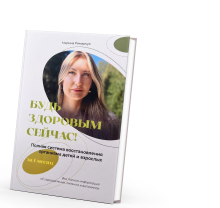
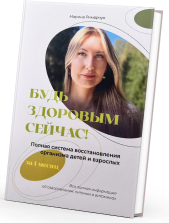
feat: created tg api navigation + refactored bookCard

diff --git a/src/pages/questions/QuestionPage.tsx b/src/pages/questions/QuestionPage.tsx
@@ -2,66 +2,69 @@ import React from 'react';
 
 import { AccordionComponent } from '../../modules/accordion/AccordionComponent';
 import { HeaderPage } from '../../modules/header/components/HeaderPage';
+import { useBackButton } from '../../utils/hooks/useBackButton';
 import { IAccordionContent } from '../../utils/types/statistic';
 import css from './QuestionPage.module.scss';
 
+const questionData: IAccordionContent[] = [
+    {
+        id: '1',
+        title: 'Текст вопроса 1',
+        content: [
+            {
+                title: '4 шага к исполнению мечты текст текст текст текст текст текст текст',
+            },
+        ],
+    },
+    {
+        id: '2',
+        title: 'Текст вопроса 1',
+        content: [
+            {
+                title: '4 шага к исполнению мечты текст текст текст текст текст текст текст',
+            },
+        ],
+    },
+    {
+        id: '3',
+        title: 'Текст вопроса 1',
+        content: [
+            {
+                title: '4 шага к исполнению мечты текст текст текст текст текст текст текст',
+            },
+        ],
+    },
+    {
+        id: '4',
+        title: 'Текст вопроса 1',
+        content: [
+            {
+                title: '4 шага к исполнению мечты текст текст текст текст текст текст текст',
+            },
+        ],
+    },
+    {
+        id: '5',
+        title: 'Текст вопроса 1',
+        content: [
+            {
+                title: '4 шага к исполнению мечты текст текст текст текст текст текст текст',
+            },
+        ],
+    },
+    {
+        id: '6',
+        title: 'Текст вопроса 1',
+        content: [
+            {
+                title: '4 шага к исполнению мечты текст текст текст текст текст текст текст',
+            },
+        ],
+    },
+];
+
 export const QuestionPage = () => {
-    const questionData: IAccordionContent[] = [
-        {
-            id: '1',
-            title: 'Текст вопроса 1',
-            content: [
-                {
-                    title: '4 шага к исполнению мечты текст текст текст текст текст текст текст',
-                },
-            ],
-        },
-        {
-            id: '2',
-            title: 'Текст вопроса 1',
-            content: [
-                {
-                    title: '4 шага к исполнению мечты текст текст текст текст текст текст текст',
-                },
-            ],
-        },
-        {
-            id: '3',
-            title: 'Текст вопроса 1',
-            content: [
-                {
-                    title: '4 шага к исполнению мечты текст текст текст текст текст текст текст',
-                },
-            ],
-        },
-        {
-            id: '4',
-            title: 'Текст вопроса 1',
-            content: [
-                {
-                    title: '4 шага к исполнению мечты текст текст текст текст текст текст текст',
-                },
-            ],
-        },
-        {
-            id: '5',
-            title: 'Текст вопроса 1',
-            content: [
-                {
-                    title: '4 шага к исполнению мечты текст текст текст текст текст текст текст',
-                },
-            ],
-        },
-        {
-            id: '6',
-            title: 'Текст вопроса 1',
-            content: [
-                {
-                    title: '4 шага к исполнению мечты текст текст текст текст текст текст текст',
-                },
-            ],
-        },
-    ];
+    useBackButton('/');
 
     return (
         <div className={css.questionPage}>

diff --git a/src/pages/main/components/parts/WelcomeUser.tsx b/src/pages/main/components/parts/WelcomeUser.tsx
@@ -3,6 +3,7 @@ import { Link } from 'react-router-dom';
 import { ReactComponent as ArrowIcon } from '../../../../assets/images/arrowIcon/arrow.svg';
 import { ReactComponent as AvatarIcon } from '../../../../assets/images/welcomeUser/avatar.svg';
 import { ReactComponent as QuestionsIcon } from '../../../../assets/images/welcomeUser/questions.svg';
+import { useTelegram } from '../../../../utils/hooks/useTelegram';
 import css from './WelcomeUser.module.scss';
 
 export const WelcomeUser = () => {
@@ -15,6 +16,8 @@ export const WelcomeUser = () => {
 
     /* console.log(users, 'users');*/
 
+    const { initDataUnsafe, WebAppUser } = useTelegram();
+
     return (
         <div className={css.welcomeUser}>
             <Link to="/statistics">
@@ -25,7 +28,7 @@ export const WelcomeUser = () => {
                         </div>
                         <div className={css.userInfo}>
                             <div className={css.helloUser}>Привет</div>
-                            <div className={css.username}>Ангелина</div>
+                            <div className={css.username}>{initDataUnsafe?.user?.first_name ?? 'Аноним'}</div>
                         </div>
                     </div>
                     <button type="button" className={css.arrowIcon}>

diff --git a/src/pages/statistics/StatisticsPage.tsx b/src/pages/statistics/StatisticsPage.tsx
@@ -1,17 +1,20 @@
-import React from 'react';
-
 import { ReactComponent as AvatarIcon } from '../../assets/images/statistics/avatar.svg';
+import { useBackButton } from '../../utils/hooks/useBackButton';
+import { useTelegram } from '../../utils/hooks/useTelegram';
 import css from './StatisticsPage.module.scss';
 import { MyStatistics } from './components/MyStatistics';
 
 export const StatisticsPage = () => {
+    useBackButton('/');
+    const { initDataUnsafe, WebAppUser } = useTelegram();
+
     return (
         <div className={css.statisticsWrapper}>
             <div className={css.statisticsPage}>
                 <div className={css.userAvatar}>
                     <AvatarIcon />
                 </div>
-                <div className={css.username}>Ангелина</div>
+                <p className={css.username}>{initDataUnsafe?.user?.first_name ?? 'Аноним'}</p>
             </div>
             <MyStatistics />
         </div>

diff --git a/src/pages/main/components/parts/BookCard.tsx b/src/pages/main/components/parts/BookCard.tsx
@@ -1,6 +1,7 @@
 import { FC, ReactNode } from 'react';
 import { Link } from 'react-router-dom';
 
+import imageSrc from '../../../../assets/images/bookBlock/book.png';
 import css from './BookCard.module.scss';
 
 export type BookCardProps = {
@@ -16,7 +17,8 @@ export const BookCard: FC<BookCardProps> = (props) => {
     return (
         <div className={className}>
             <div className={css.bookCard} data-index={index}>
-                <div className={css.bookImage} data-index={index}></div>
+                <img src={imageSrc} className={css.bookImage} alt="book" />
+
                 <div className={css.bookInfo}>
                     <div className={css.bookTitle}>{title}</div>
                     <div className={css.bookDescription}>{description}</div>

diff --git a/src/pages/main/components/parts/BookCard.module.scss b/src/pages/main/components/parts/BookCard.module.scss
@@ -1,7 +1,10 @@
 .bookCard {
-  display: flex;
+  display: grid;
+  grid-template-columns: minmax(100px, 2fr) 4fr;
+  align-items: center;
+  gap: 16px;
   min-height: 188px;
-  padding: 16px;
+  //padding: 16px;
   border-radius: 20px;
 
   &[data-index="0"], &[data-index="1"], &[data-index="2"], &[data-index="3"] {
@@ -9,16 +12,11 @@
   }
 
   .bookImage {
-    display: inline-flex;
-    min-width: 131px;
-    min-height: 226px;
-
-    &[data-index="0"], &[data-index="1"], &[data-index="2"], &[data-index="3"] {
-      background: url("../../../../assets/images/bookBlock/book.png") left top / 190px 210px no-repeat;
-    }
+    object-fit: contain;
   }
 
   .bookInfo {
+    margin: 16px 16px 16px 0;
     display: flex;
     flex-direction: column;
 

diff --git a/src/pages/video/VideoPage.tsx b/src/pages/video/VideoPage.tsx
@@ -1,15 +1,12 @@
-import React, { FC } from 'react';
-
 import { HeaderPage } from '../../modules/header/components/HeaderPage';
 import { data } from '../../modules/videoBlock/VideoBlock';
+import { useBackButton } from '../../utils/hooks/useBackButton';
 import { VideoCard } from '../main/components/parts/VideoCard';
 import css from './VideoPage.module.scss';
 
-export type VideoPageProps = {
-    isPage?: boolean;
-};
+export const VideoPage = () => {
+    useBackButton('/');
 
-export const VideoPage: FC<VideoPageProps> = () => {
     return (
         <div className={css.podcastPage}>
             <HeaderPage title="Видео от Марины Римарчук" isVideoBlock={true} />

diff --git a/src/utils/hooks/useBackButton.ts b/src/utils/hooks/useBackButton.ts
@@ -1,0 +1,23 @@
+import { useEffect } from 'react';
+import { useNavigate } from 'react-router-dom';
+
+import { useTelegram } from './useTelegram';
+
+export const useBackButton = (path?: string) => {
+    const { BackButton } = useTelegram();
+    const navigate = useNavigate();
+
+    useEffect(() => {
+        const goToModulePage = () => navigate(path ?? '/');
+
+        if (BackButton) {
+            BackButton.show();
+            BackButton.onClick(goToModulePage);
+        }
+
+        return () => {
+            BackButton?.hide();
+            BackButton?.offClick(goToModulePage);
+        };
+    }, [navigate, path, BackButton]);
+};

diff --git a/src/pages/meditation/MeditationPage.tsx b/src/pages/meditation/MeditationPage.tsx
@@ -1,6 +1,7 @@
 import React, { FC } from 'react';
 
 import { HeaderPage } from '../../modules/header/components/HeaderPage';
+import { useBackButton } from '../../utils/hooks/useBackButton';
 import { IMeditation } from '../../utils/types/meditation';
 import { MeditationCard } from '../main/components/parts/MeditationCard';
 import css from './MeditationPage.module.scss';
@@ -28,6 +29,8 @@ const data: IMeditation[] = [
 ];
 
 export const MeditationPage: FC<MeditationPageProps> = () => {
+    useBackButton('/');
+
     return (
         <div className={css.meditationPage}>
             <HeaderPage title="Медитации" />

diff --git a/src/pages/podcast/PodcastPage.tsx b/src/pages/podcast/PodcastPage.tsx
@@ -1,6 +1,7 @@
 import React from 'react';
 
 import { HeaderPage } from '../../modules/header/components/HeaderPage';
+import { useBackButton } from '../../utils/hooks/useBackButton';
 import { IPodcast } from '../../utils/types/podcast';
 import { PodcastCard } from '../main/components/parts/PodcastCard';
 import css from './PodcastPage.module.scss';
@@ -33,6 +34,8 @@ const data: IPodcast[] = [
 ];
 
 export const PodcastPage = () => {
+    useBackButton('/');
+
     return (
         <div className={css.podcastPage}>
             <HeaderPage title="Подкасты" />

diff --git a/src/pages/NotFoundPage/NotFound.tsx b/src/pages/NotFoundPage/NotFound.tsx
@@ -1,7 +1,8 @@
-import React from 'react';
-
 import { ErrorBlock } from '../../components/ErrorBlock';
+import { useBackButton } from '../../utils/hooks/useBackButton';
 
 export const NotFoundPage = () => {
+    useBackButton('/');
+
     return <ErrorBlock code={404} description="Похоже что такой страницы не существует, вернитесь на главную" />;
 };

diff --git a/public/index.html b/public/index.html
@@ -15,7 +15,8 @@
     />
     <link rel="apple-touch-icon" href="%PUBLIC_URL%/logo192.png" />
     <link rel="manifest" href="%PUBLIC_URL%/manifest.json" />
-    <title>React App</title>
+    <title>Marina Rimarchuk</title>
+    <script src="https://telegram.org/js/telegram-web-app.js"></script>
   </head>
   <body>
     <noscript>You need to enable JavaScript to run this app.</noscript>

diff --git a/src/components/ErrorCatch/ErrorCatch.tsx b/src/components/ErrorCatch/ErrorCatch.tsx
@@ -1,4 +1,4 @@
-import React, { FC, ReactNode } from 'react';
+import { FC, ReactNode } from 'react';
 import { ErrorBoundary } from 'react-error-boundary';
 
 import { ErrorCatchFallback } from './ErrorCatchFallback';
